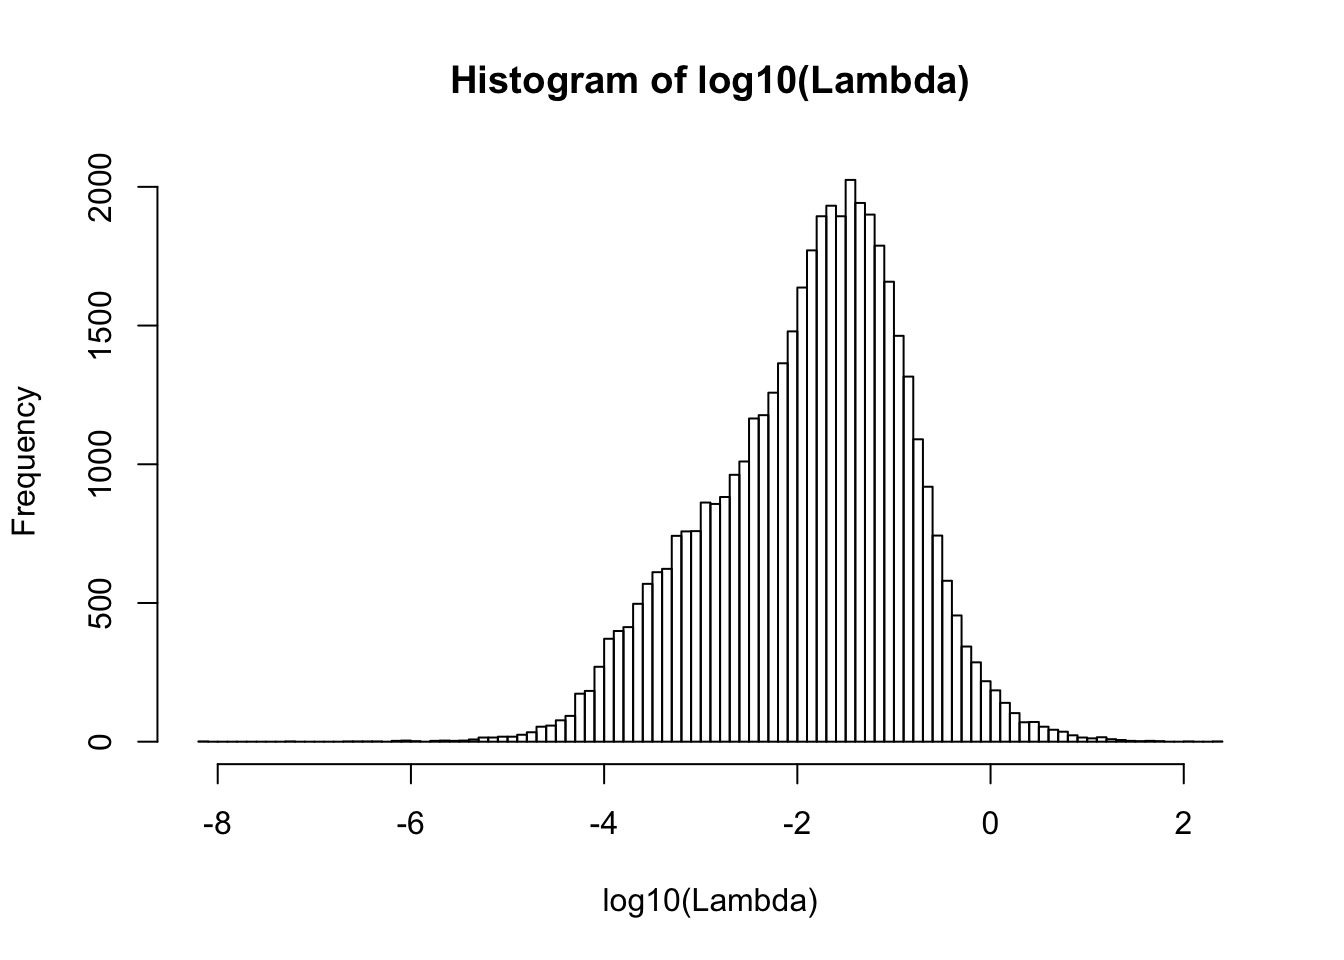
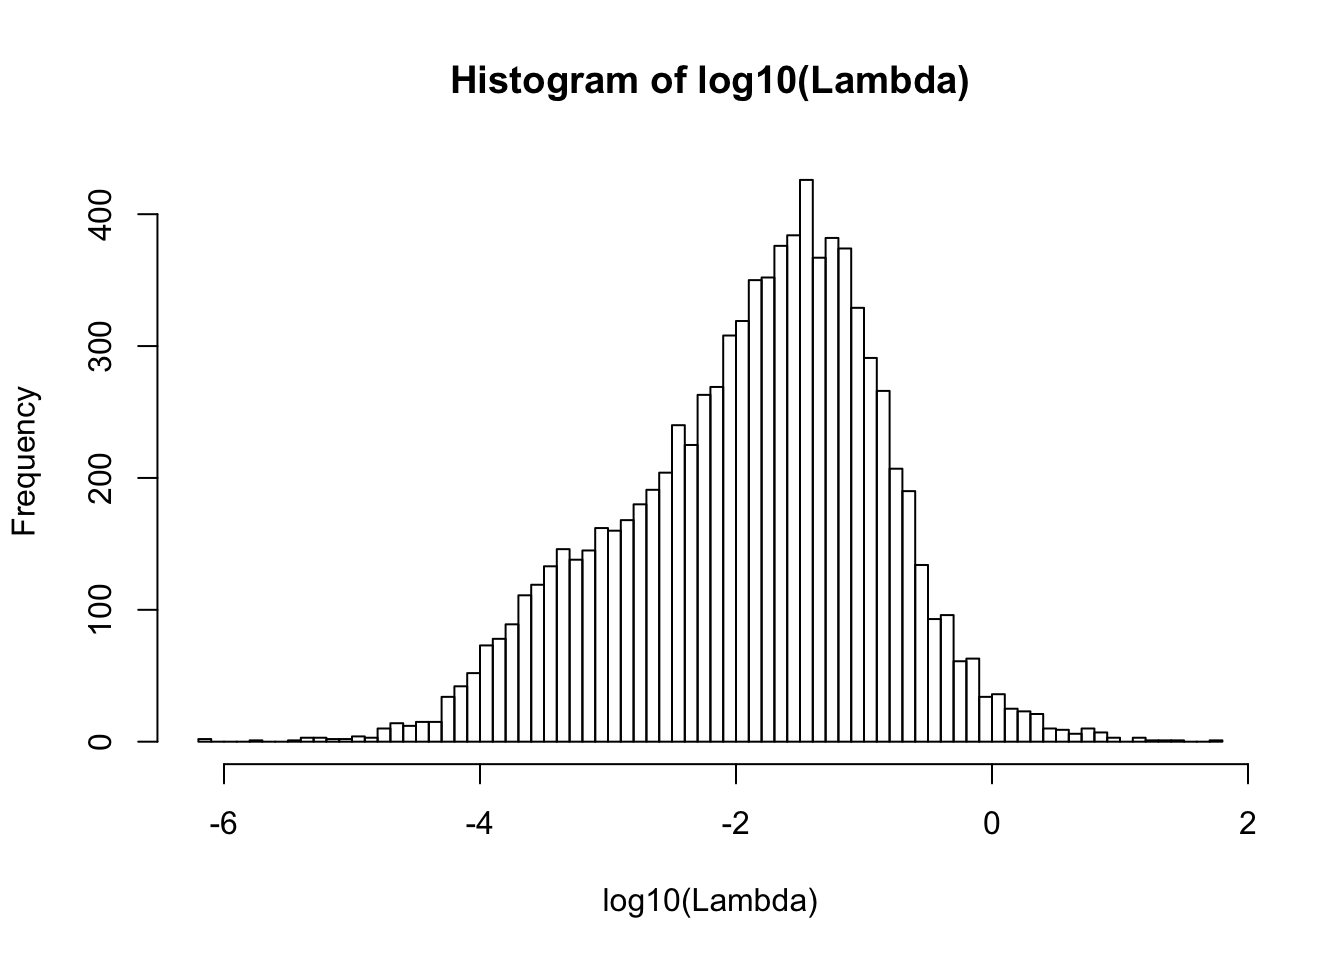
Build site.

diff --git a/docs/fit_cytokines_data.html b/docs/fit_cytokines_data.html
@@ -412,7 +412,7 @@ div.section {
 <div class="tab-content">
 <div id="summary" class="tab-pane fade in active">
 <p>
-<strong>Last updated:</strong> 2020-04-07
+<strong>Last updated:</strong> 2020-04-08
 </p>
 <p>
 <strong>Checks:</strong> <span class="glyphicon glyphicon-ok text-success" aria-hidden="true"></span> 6 <span class="glyphicon glyphicon-exclamation-sign text-danger" aria-hidden="true"></span> 1
@@ -509,10 +509,10 @@ unnamed-chunk-4
 <div class="panel panel-default">
 <div class="panel-heading">
 <p class="panel-title">
-<a data-toggle="collapse" data-parent="#workflowr-checks" href="#strongRepositoryversionstrongahrefhttpsgithubcomzihao12ebpmfdemotree5548e6af999482ea74e0c3e5cc79812e12e54826targetblank5548e6aa"> <span class="glyphicon glyphicon-ok text-success" aria-hidden="true"></span> <strong>Repository version:</strong> <a href="https://github.com/zihao12/ebpmf_demo/tree/5548e6af999482ea74e0c3e5cc79812e12e54826" target="_blank">5548e6a</a> </a>
+<a data-toggle="collapse" data-parent="#workflowr-checks" href="#strongRepositoryversionstrongahrefhttpsgithubcomzihao12ebpmfdemotree029a432e8523d9ad25af22f9647502fcb8a73346targetblank029a432a"> <span class="glyphicon glyphicon-ok text-success" aria-hidden="true"></span> <strong>Repository version:</strong> <a href="https://github.com/zihao12/ebpmf_demo/tree/029a432e8523d9ad25af22f9647502fcb8a73346" target="_blank">029a432</a> </a>
 </p>
 </div>
[2 lines of base64/hex data omitted]
 <div class="panel-body">
 <p>
 Great! You are using Git for version control. Tracking code development and connecting the code version to the results is critical for reproducibility. The version displayed above was the version of the Git repository at the time these results were generated. <br><br> Note that you need to be careful to ensure that all relevant files for the analysis have been committed to Git prior to generating the results (you can use <code>wflow_publish</code> or <code>wflow_git_commit</code>). workflowr only checks the R Markdown file, but you know if there are other scripts or data files that it depends on. Below is the status of the Git repository when the results were generated:
@@ -566,6 +566,7 @@ Untracked files:
     Untracked:  analysis/experiment_nb_means2_cache_0/
     Untracked:  analysis/experiment_nb_means3.Rmd
     Untracked:  analysis/experiment_nb_means_old.Rmd
+    Untracked:  analysis/fit_cytokines_data_old.Rmd
     Untracked:  analysis/investigate_gamma_poisson.Rmd
     Untracked:  analysis/investigate_nmf_sparse.Rmd
     Untracked:  analysis/nmf_anchor_word4.Rmd
@@ -582,6 +583,7 @@ Untracked files:
     Untracked:  code/anchor-word-recovery/
     Untracked:  data/anchor_word_model1.csv
     Untracked:  data/cytokines_data_fit.RData
+    Untracked:  data/genes_ranked.RDS
     Untracked:  data/nmf_anchor_word3_A.csv
     Untracked:  data/nmf_anchor_word3_W.csv
     Untracked:  data/nmf_anchor_word3_X.csv
@@ -590,10 +592,13 @@ Untracked files:
     Untracked:  data/nmf_sparse8_fit_ebpmf_gm_mle.Rds
     Untracked:  data/nmf_sparse8_fit_ebpmf_gm_mlem.Rds
     Untracked:  data/nmf_sparse_ebpm_tg_slow.Rds
+    Untracked:  data/scdata_hvg.RDS
+    Untracked:  data/scdata_lvg.RDS
     Untracked:  data/swimmer.mat
     Untracked:  figure/
     Untracked:  script/nb_means_old.R
     Untracked:  script/nmf_sparse_ebpm_old.R
+    Untracked:  script/test_nb_means_cytokines.R
     Untracked:  verbose_log_1571583163.21966.txt
     Untracked:  verbose_log_1571583324.71036.txt
     Untracked:  verbose_log_1571583741.94199.txt
@@ -648,6 +653,40 @@ Message
 </tr>
 </thead>
 <tbody>
+<tr>
+<td>
+Rmd
+</td>
+<td>
+<a href="https://github.com/zihao12/ebpmf_demo/blob/029a432e8523d9ad25af22f9647502fcb8a73346/analysis/fit_cytokines_data.Rmd" target="_blank">029a432</a>
+</td>
+<td>
+zihao12
+</td>
+<td>
+2020-04-08
+</td>
+<td>
+update fit_cytokines_data
+</td>
+</tr>
+<tr>
+<td>
+html
+</td>
+<td>
+<a href="https://rawcdn.githack.com/zihao12/ebpmf_demo/cdf4f07ef08e7f7a46ebad251197ea228d66598f/docs/fit_cytokines_data.html" target="_blank">cdf4f07</a>
+</td>
+<td>
+zihao12
+</td>
+<td>
+2020-04-07
+</td>
+<td>
+Build site.
+</td>
+</tr>
 <tr>
 <td>
 Rmd
@@ -708,18 +747,22 @@ apply nb-means on realistically simulated data
 </div>
 <div id="experiment-setup" class="section level2">
 <h2>experiment setup</h2>
-<p>The idea is to simulate realistic data from fitted <code>F</code>, <code>s</code> on <code>cytokines</code> data. (<code>F</code> becomes <span class="math inline">\(\lambda\)</span> in the model below)</p>
+<ul>
+<li>The idea is to simulate realistic data from fitted <code>F</code>, <code>s</code> on <code>cytokines</code> data (provided by Yusha). (<code>F</code> becomes <span class="math inline">\(\lambda\)</span> in the model below)<br />
+</li>
+<li>I simulate data using the model below:
 <span class="math display">\[\begin{align}
   &amp; Y_{jk} \sim Po(s_k \lambda_{jk})\\
   &amp; \lambda_{jk} = \mu_j v_{jk}\\
   &amp; v_{jk} \sim Ga(1/\phi_{jk}, 1/\phi_{jk})
-\end{align}\]</span>
+\end{align}\]</span></li>
+</ul>
 <pre class="r"><code>rm(list = ls())
 load(&quot;data/cytokines_data_fit.RData&quot;)
 source(&quot;script/nb_means.R&quot;)
 set.seed(123)
 fit.F[fit.F &lt; 1e-14] = 0 ## they should be 0 (only set to 1e-15 for numerical issue)</code></pre>
-<p>take a look at the fitted <code>F</code>. One question is: how siginificant the difference is, between <span class="math inline">\(10^{-15}\)</span> and <span class="math inline">\(10^{-5}\)</span> (also, is <span class="math inline">\(10^{-15}\)</span> seems to be the minimum set for smaller values )</p>
+<p>take a look at the fitted <code>F</code>.</p>
 <pre class="r"><code>hist(log10(fit.F),breaks = 100)</code></pre>
 <p><img src="figure/fit_cytokines_data.Rmd/unnamed-chunk-2-1.png" width="672" style="display: block; margin: auto;" /></p>
 <p>
@@ -746,6 +789,17 @@ Date
 <tbody>
 <tr>
 <td>
+<a href="https://github.com/zihao12/ebpmf_demo/blob/cdf4f07ef08e7f7a46ebad251197ea228d66598f/docs/figure/fit_cytokines_data.Rmd/unnamed-chunk-2-1.png" target="_blank">cdf4f07</a>
+</td>
+<td>
+zihao12
+</td>
+<td>
+2020-04-07
+</td>
+</tr>
+<tr>
+<td>
 <a href="https://github.com/zihao12/ebpmf_demo/blob/74bf197764278fa183745d8cb4dfd4eed7461e69/docs/figure/fit_cytokines_data.Rmd/unnamed-chunk-2-1.png" target="_blank">74bf197</a>
 </td>
 <td>
@@ -767,7 +821,11 @@ zihao12
   1.211880   1.325073   1.448882   1.635377   1.899570   2.297950   2.783029 
      99.7%      99.8%      99.9%       100% 
   3.596375   5.132868   9.897656 700.655108 </code></pre>
-<pre class="r"><code>p = 5000
+</div>
+<div id="simulate-data" class="section level2">
+<h2>simulate data</h2>
+<p>Look at the oracle <span class="math inline">\(\Lambda\)</span> and data <span class="math inline">\(Y\)</span>:</p>
+<pre class="r"><code>p = 1000
 k = length(s_k)
 idx = sample(x = 1:nrow(fit.F), size = p, replace = FALSE)
 Lambda = fit.F[idx,]
@@ -797,6 +855,17 @@ Date
 </tr>
 </thead>
 <tbody>
+<tr>
+<td>
+<a href="https://github.com/zihao12/ebpmf_demo/blob/cdf4f07ef08e7f7a46ebad251197ea228d66598f/docs/figure/fit_cytokines_data.Rmd/unnamed-chunk-3-1.png" target="_blank">cdf4f07</a>
+</td>
+<td>
+zihao12
+</td>
+<td>
+2020-04-07
+</td>
+</tr>
 <tr>
 <td>
 <a href="https://github.com/zihao12/ebpmf_demo/blob/74bf197764278fa183745d8cb4dfd4eed7461e69/docs/figure/fit_cytokines_data.Rmd/unnamed-chunk-3-1.png" target="_blank">74bf197</a>
@@ -838,6 +907,17 @@ Date
 <tbody>
 <tr>
 <td>
+<a href="https://github.com/zihao12/ebpmf_demo/blob/cdf4f07ef08e7f7a46ebad251197ea228d66598f/docs/figure/fit_cytokines_data.Rmd/unnamed-chunk-3-2.png" target="_blank">cdf4f07</a>
+</td>
+<td>
+zihao12
+</td>
+<td>
+2020-04-07
+</td>
+</tr>
+<tr>
+<td>
 <a href="https://github.com/zihao12/ebpmf_demo/blob/74bf197764278fa183745d8cb4dfd4eed7461e69/docs/figure/fit_cytokines_data.Rmd/unnamed-chunk-3-2.png" target="_blank">74bf197</a>
 </td>
 <td>
@@ -851,26 +931,14 @@ zihao12
 </table>
 </div>
 </div>
-<p>Fit with NB-means algorithm (with fast grid search)</p>
+</div>
+<div id="fit-with-nb-means-algorithm-with-fast-grid-search" class="section level2">
+<h2>Fit with NB-means algorithm (with fast grid search)</h2>
 <pre class="r"><code>verbose = FALSE
-maxiter = 100
+maxiter = 1000
 fit = nb_means(Y = Y, s = s_k, mu = NULL, A = NULL, maxiter = maxiter, verbose = verbose,
                               control = list(method = &quot;grid&quot;), seed = 123)</code></pre>
-</div>
-<div id="compared-with-mle-result-lambdamle_jk-y_jks_k" class="section level2">
-<h2>Compared with MLE result <span class="math inline">\(\lambda^{mle}_{jk} = Y_{jk}/s_k\)</span></h2>
-<pre class="r"><code>Lambda_mle = Y %*% diag(1/s_k)
-Lambda_eb_pm = fit$posterior$mean ## use posterior mean of the EB result
-plot(Lambda, Lambda_eb_pm, log = &quot;xy&quot;, xlab = &quot;lambda true&quot;, ylab = &quot;lambda fit&quot;, col = &quot;blue&quot;)</code></pre>
-<pre><code>Warning in xy.coords(x, y, xlabel, ylabel, log): 15523 x values &lt;= 0 omitted
-from logarithmic plot</code></pre>
-<pre class="r"><code>points(Lambda, Lambda_mle, log = &quot;xy&quot;, col = &quot;red&quot;)</code></pre>
-<pre><code>Warning in plot.xy(xy.coords(x, y), type = type, ...): &quot;log&quot; is not a graphical
-parameter</code></pre>
-<pre class="r"><code>abline(0,1,lwd=0.5,col=&quot;black&quot;)
-
-legend(&quot;bottomright&quot;, legend=c(&quot;posterior mean (EB)&quot;, &quot;MLE&quot;),
-       col=c(&quot;blue&quot;, &quot;red&quot;), lty=c(1,1), cex=0.8)</code></pre>
+<pre class="r"><code>plot(fit$progress)</code></pre>
 <p><img src="figure/fit_cytokines_data.Rmd/unnamed-chunk-5-1.png" width="672" style="display: block; margin: auto;" /></p>
 <p>
 <button type="button" class="btn btn-default btn-xs btn-workflowr btn-workflowr-fig" data-toggle="collapse" data-target="#fig-unnamed-chunk-5-1">
@@ -896,6 +964,17 @@ Date
 <tbody>
 <tr>
 <td>
+<a href="https://github.com/zihao12/ebpmf_demo/blob/cdf4f07ef08e7f7a46ebad251197ea228d66598f/docs/figure/fit_cytokines_data.Rmd/unnamed-chunk-5-1.png" target="_blank">cdf4f07</a>
+</td>
+<td>
+zihao12
+</td>
+<td>
+2020-04-07
+</td>
+</tr>
+<tr>
+<td>
 <a href="https://github.com/zihao12/ebpmf_demo/blob/74bf197764278fa183745d8cb4dfd4eed7461e69/docs/figure/fit_cytokines_data.Rmd/unnamed-chunk-5-1.png" target="_blank">74bf197</a>
 </td>
 <td>
@@ -909,7 +988,70 @@ zihao12
 </table>
 </div>
 </div>
-<p>For practical use (like looking at driver genes, there seems to be little difference)</p>
+</div>
+<div id="compared-with-mle-result-lambdamle_jk-y_jks_k" class="section level2">
+<h2>Compared with MLE result <span class="math inline">\(\lambda^{mle}_{jk} = Y_{jk}/s_k\)</span></h2>
+<pre class="r"><code>Lambda_mle = Y %*% diag(1/s_k)
+Lambda_eb_pm = fit$posterior$mean ## use posterior mean of the EB result
+plot(Lambda, Lambda_eb_pm, xlab = &quot;lambda true&quot;, ylab = &quot;lambda fit&quot;, col = &quot;blue&quot;)
+points(Lambda, Lambda_mle, col = &quot;red&quot;)
+abline(0,1,lwd=0.5,col=&quot;black&quot;)
+
+legend(&quot;bottomright&quot;, legend=c(&quot;posterior mean (EB)&quot;, &quot;MLE&quot;),
+       col=c(&quot;blue&quot;, &quot;red&quot;), lty=c(1,1), cex=0.8)</code></pre>
+<p><img src="figure/fit_cytokines_data.Rmd/unnamed-chunk-6-1.png" width="672" style="display: block; margin: auto;" /> Looks like the dataset is too easy?<br />
+Take a closer look</p>
+<pre class="r"><code>mask &lt;- (Lambda&gt;0)
+plot(Lambda[mask], Lambda_eb_pm[mask], log = &quot;xy&quot;, xlab = &quot;lambda true&quot;, ylab = &quot;lambda fit&quot;, col = &quot;blue&quot;)
+points(Lambda[mask], Lambda_mle[mask], col = &quot;red&quot;)
+abline(0,1,lwd=0.5,col=&quot;black&quot;)
+
+legend(&quot;topright&quot;, legend=c(&quot;posterior mean (EB)&quot;, &quot;MLE&quot;, &quot;y = x&quot;),
+       col=c(&quot;blue&quot;, &quot;red&quot;, &quot;black&quot;), lty=c(1,1,1), cex=0.8)</code></pre>
+<p><img src="figure/fit_cytokines_data.Rmd/unnamed-chunk-7-1.png" width="672" style="display: block; margin: auto;" /></p>
+</div>
+<div id="look-at-mu" class="section level2">
+<h2>look at <span class="math inline">\(\mu\)</span></h2>
+<p><span class="math inline">\(\mu\)</span> can be interpreted to be mean for each gene. So I compare it with the true gene mean, and gene median from (true <span class="math inline">\(\Lambda\)</span>)</p>
+<pre class="r"><code>gene_mean = apply(Lambda,1, mean)
+gene_median = apply(Lambda,1, median)
+gene_mean_fitted = fit$fitted_g$mu
+
+plot(gene_mean_fitted, gene_median, col = &quot;red&quot;, ylab = &quot;truth mean/median&quot;, xlab = &quot;fitted mean&quot;)
+points(gene_mean_fitted, gene_mean, col = &quot;blue&quot;)
+abline(0,1,lwd=0.5,col=&quot;black&quot;)
+legend(&quot;bottomright&quot;, legend=c(&quot;gene_median&quot;, &quot;gene_mean&quot;, &quot;y = x&quot;),
+       col=c(&quot;red&quot;, &quot;blue&quot;, &quot;black&quot;), lty=c(1,1,1), cex=0.8)</code></pre>
+<p><img src="figure/fit_cytokines_data.Rmd/unnamed-chunk-8-1.png" width="672" style="display: block; margin: auto;" /></p>
+</div>
+<div id="look-at-phi_jk" class="section level2">
+<h2>look at <span class="math inline">\(\phi_{jk}\)</span></h2>
+<p>Yusha provided the variability of each gene using Seurat. I look at the Phi of the most and least variable genes (its relaibilty is dubious). There seems not to be much difference.</p>
+<pre class="r"><code>gene_sub_names = rownames(fit.F)[idx]
+gene_ranked = readRDS(&quot;./data/genes_ranked.RDS&quot;)
+id_by_std = order(gene_ranked[gene_sub_names,&quot;variance.standardized&quot;], decreasing = TRUE)
+Phi_ordered = 1/fit$fitted_g$A[id_by_std,]
+
+# 
+# p1 &lt;- hist(log10(Phi_ordered[1:20,]))                    
+# p2 &lt;- hist(log10(Phi_ordered[980:1000,]))                     
+# plot( p1, col=rgb(0,0,1,1/4), xlim = c(-5,3), main = &quot;hist of log(phi)&quot;)  # first histogram
+# plot( p2, col=rgb(1,0,0,1/4), xlim = c(-5,3), add=T)  # second
+hist(log10(Phi_ordered[1:20,]), xlim=c(-5,3), col=&quot;red&quot;, main = &quot;hist of log10(phi)&quot;)
+hist(log10(Phi_ordered[980:1000,]),add=T, col=rgb(0, 1, 0, 0.5) )
+legend(&quot;topleft&quot;, legend=c(&quot;Phi for most variable genes&quot;, &quot;Phi for least variable genes&quot;),
+       col=c(&quot;red&quot;, rgb(0, 1, 0, 0.5)), lty=c(1,1), cex=0.8)</code></pre>
+<p><img src="figure/fit_cytokines_data.Rmd/unnamed-chunk-9-1.png" width="672" style="display: block; margin: auto;" /></p>
+<pre class="r"><code>## Phi for most variable genes
+table(Phi_ordered[1:20,])</code></pre>
+<pre><code>
+0.001  0.01   0.1     1    10   100 
+    1     3    12    27   189     8 </code></pre>
+<pre class="r"><code>## Phi for least variable genes
+table(Phi_ordered[980:1000,])</code></pre>
+<pre><code>
+1e-05 0.001  0.01   0.1     1    10   100 
+    1     2     9    21    60   152     7 </code></pre>
 <br>
 <p>
 <button type="button" class="btn btn-default btn-workflowr btn-workflowr-sessioninfo" data-toggle="collapse" data-target="#workflowr-sessioninfo" style="display: block;">
